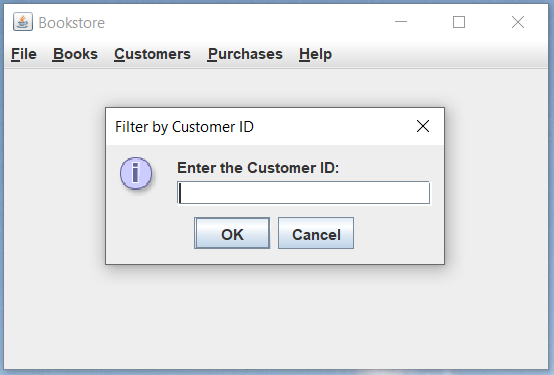
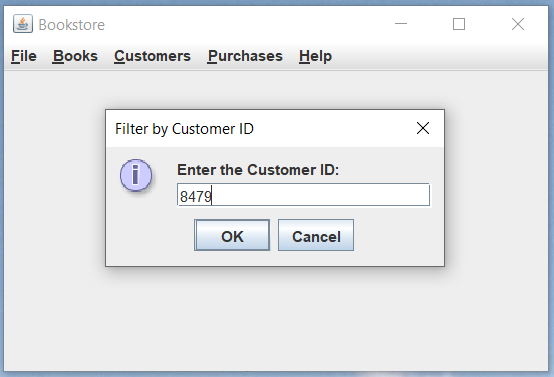
Update README and sample output screenshots

diff --git a/README.md b/README.md
@@ -1,2 +1,32 @@
 # Bookstore Manager
 This is a Java MVC program to manage books, customers, and purchases for a virtual bookstore, developed as a course project for the Java Application Development course at British Columbia Institute of Technology (BCIT). 
+
+## Instructions
+---
+1. Download as a whole or clone, or download the Bookstore_Manager.zip file only (unzip it)
+2. java -jar Bookstore_Manager.jar or double-click Bookstore_Manager.jar file
+
+## Requirements & Technologies
+---
+* Usage of Apache Log4j2 Logging technique in practice; messages logged with customized Exeption handles.
+* Implementation of software design pattern - Model-View-Control (MVC) with Java database connectivity (JDBC) API and operations of data access objects.
+* Application of Java graphical user interface including Swing framework practice.
+* Demonstration of Java database practice with Microsoft MySQL ODBC operations and network programming, including create, drop, insert, update, and query.
+* Practice of I/O data operations with different types of plaintext formats, including .dat, .txt., and .csv files.
+
+## Sample Output
+Program presentation/outlook: ![alt text](https://github.com/lavinotan/bookstore_manager/blob/d838dc72b5eb38b5956aaed3e7786fca03372ebe/sample_output/Program_outlook.PNG, "Bookstore outlook")
+
+Customer report: ![alt text](https://github.com/lavinotan/bookstore_manager/blob/d838dc72b5eb38b5956aaed3e7786fca03372ebe/sample_output/Customer_report.PNG, "Customer report example")
+
+Customer details shows up when click row in customer report table: ![alt text](https://github.com/lavinotan/bookstore_manager/blob/d838dc72b5eb38b5956aaed3e7786fca03372ebe/sample_output/Customer_details.PNG, "Customer detail example")
+
+Purchase report options: ![alt text](https://github.com/lavinotan/bookstore_manager/blob/d838dc72b5eb38b5956aaed3e7786fca03372ebe/sample_output/Purchase_report_options.PNG, "Purchase report options")
+
+User input for customer ID filering to generate purchase report: ![alt text](https://github.com/lavinotan/bookstore_manager/blob/d838dc72b5eb38b5956aaed3e7786fca03372ebe/sample_output/Filter_by_customerID_purchase_report.PNG, "User input for customer ID filering")
+
+Purchase report filtered by customer ID: ![alt text](https://github.com/lavinotan/bookstore_manager/blob/d838dc72b5eb38b5956aaed3e7786fca03372ebe/sample_output/Purchase_report_filtered.PNG, "Purchase report filtered by customer ID")
+
+## Miscellaneous
+---
+All rights reserved for the author. Do not use this code for any course assignments/labs. 
